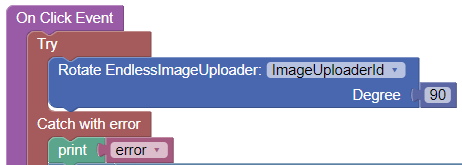
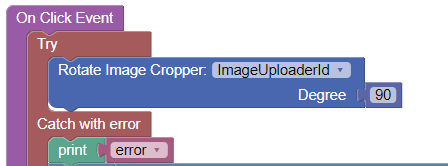
adapt images to renaming

Changed region(s): [[0.0312, 0.1818, 1.0, 1.0], [0.0312, 0.0303, 0.2812, 0.1818]]

diff --git a/EndlessImageCropper/README.md b/EndlessImageCropper/README.md
@@ -28,7 +28,7 @@ All processing is done in the browser client. So, no transfer of original, large
 
 ## General usage
 1. Place a Block-UI-component on a page where you want to display the preview of an image to be uploaded. Adjust the dimensions and other properties of this Block-component to your needs.
-2. Place the custom component ``Endless Image Cropper`` or ``Endless Image Cropper Pro`` into the Block-component. 
+2. Place the custom UI component ``Image Cropper`` or ``Image Cropper Pro`` into the Block-component. 
 3. Fill the ``Id`` property of the custom component in the side panel. Otherwise, you will not be able to work with actions.
 4. Place buttons on your page. In the respective "On Click Event"-handlers call one of the custom component actions. An example how this can look like is shown here:
 
@@ -138,7 +138,7 @@ An image can be scaled along its width or height dimension and the image encodin
 
 <br>
 
-### Get Cropped Image
+### Get
 (**Pro-version only**)
 
 Extracts the image from the current cropping area. The image can be further processed by Backendless codeless logic.
